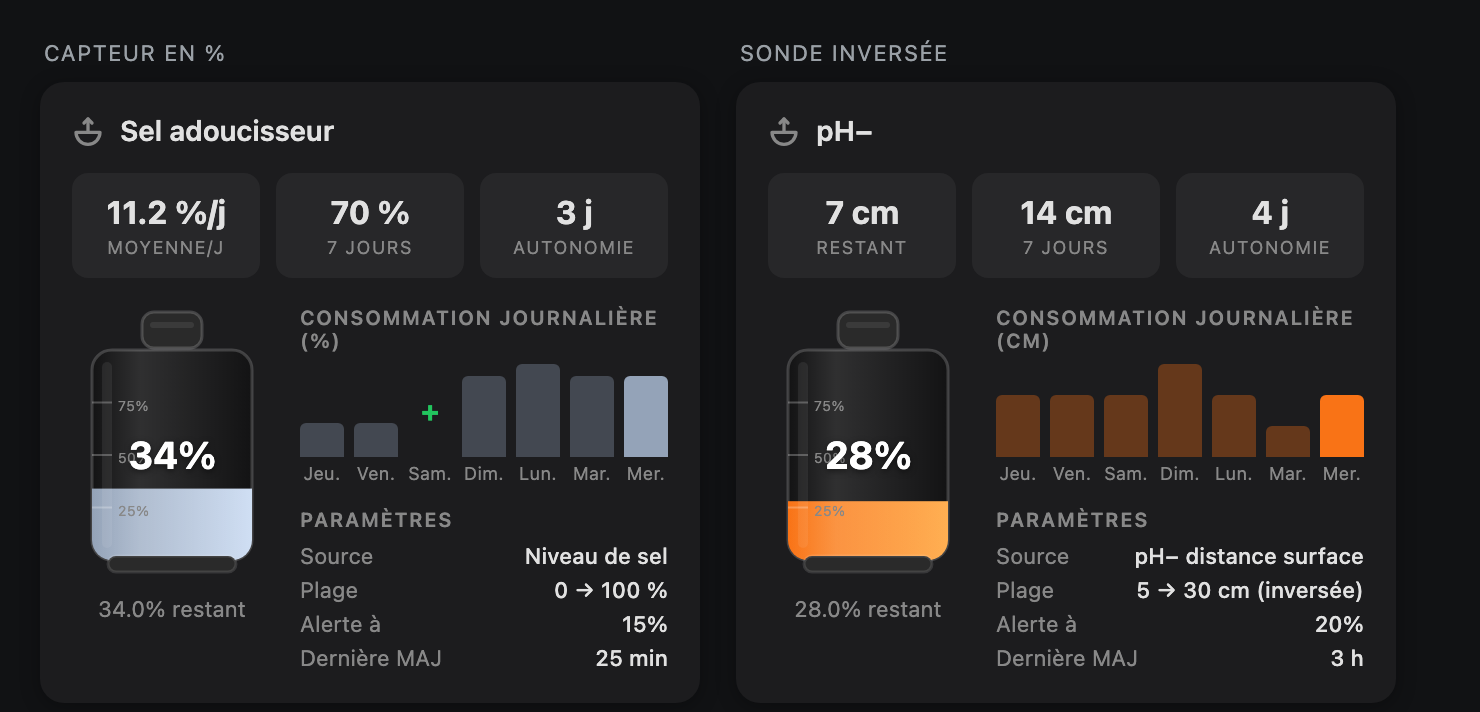
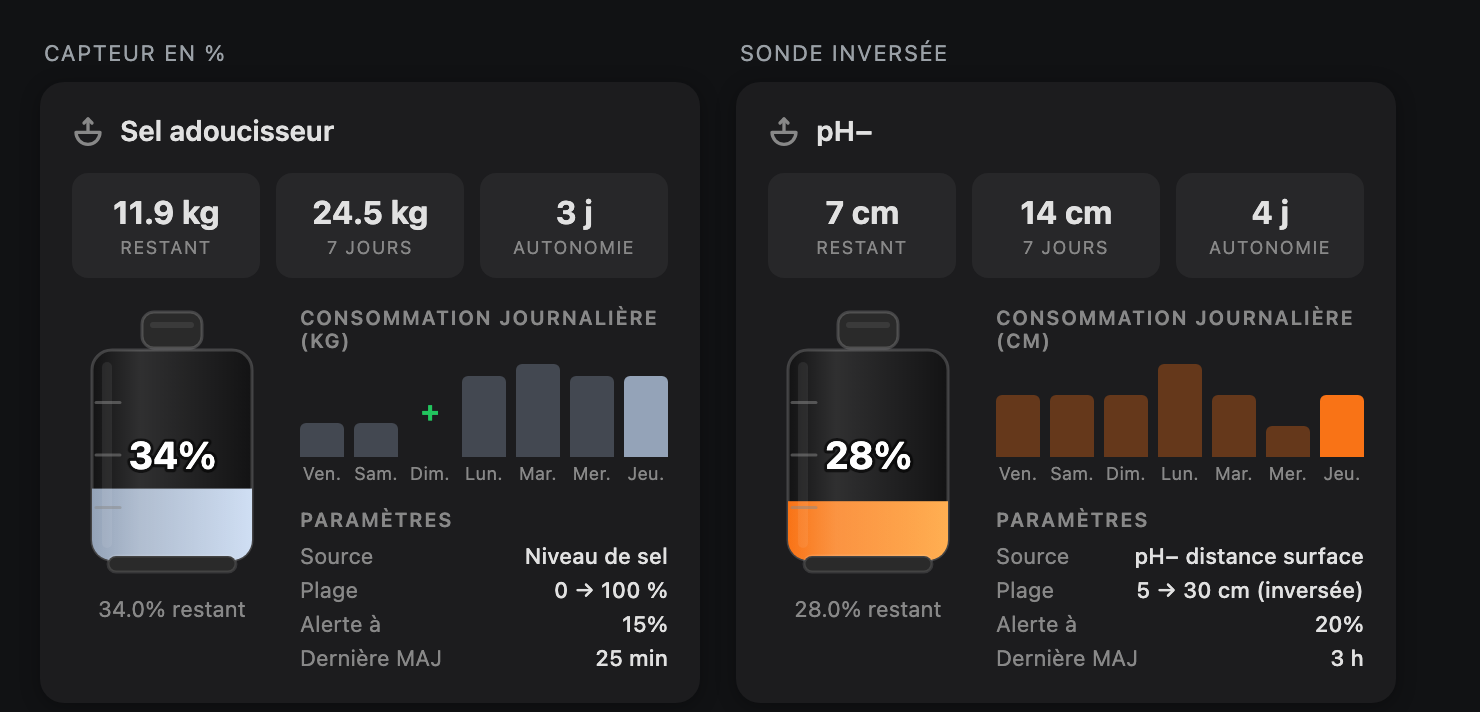
docs: capacity, colour by level, and regenerated direct-mode screenshots

diff --git a/docs/demo.html b/docs/demo.html
@@ -11,7 +11,7 @@
       --force-device-scale-factor=2 --hide-scrollbars --virtual-time-budget=4000 \
       "http://localhost:8731/docs/demo.html?lang=en&mode=direct"
 
-  Query params: lang=en|fr|…  mode=direct|pump|all
+  Query params: lang=en|fr|…  mode=direct|pump|all  colors=fixed|level
 -->
 <style>
   body { margin:0; padding:20px; background:#111214; font-family:Roboto,system-ui,sans-serif; }
@@ -26,8 +26,9 @@
 import '../dist/dosing-tank-card.js';
 
 const p    = new URLSearchParams(location.search);
-const lang = p.get('lang') || 'fr';
-const mode = p.get('mode') || 'direct';
+const lang   = p.get('lang') || 'fr';
+const mode   = p.get('mode') || 'direct';
+const colors = p.get('colors') || 'fixed';
 const DAY  = 86400000;
 const now  = Date.now();
 
@@ -48,7 +49,7 @@ function add(caption, config, states, hist) {
   col.className = 'col';
   col.innerHTML = `<p class="cap">${caption}</p>`;
   const card = document.createElement('dosing-tank-card');
-  card.setConfig(config);
+  card.setConfig({ ...config, color_mode: colors });
   card.hass = { states, locale: { language: lang },
                 callApi: async () => hist, callService: async () => {} };
   col.appendChild(card);
@@ -56,9 +57,11 @@ function add(caption, config, states, hist) {
 }
 
 if (mode === 'direct' || mode === 'all') {
-  // Softener salt tank, refilled four days ago.
+  // Softener salt tank, refilled four days ago. The sensor reports a
+  // percentage; capacity turns it into the kilos actually left.
   add(cap.pct,
     { level_entity: 'sensor.salt_level', name: lang === 'fr' ? 'Sel adoucisseur' : 'Softener salt',
+      capacity: 35, capacity_unit: 'kg',
       liquid_color: '#94a3b8', alert_threshold_percent: 15 },
     { 'sensor.salt_level': { state: '34',
         attributes: { unit_of_measurement: '%',

diff --git a/README.fr.md b/README.fr.md
@@ -97,6 +97,10 @@ liquid_color: "#3b82f6"
 | `level_entity` | `string` | ✅ ² | — | Capteur remontant le niveau. **La renseigner bascule la carte en mode niveau direct** et toute la chaîne pompe ci-dessus devient sans objet |
 | `level_full` | `number` | ² | `100` si l'unité est `%` | Valeur du capteur bidon plein |
 | `level_empty` | `number` | ² | `0` | Valeur du capteur bidon vide |
+| `capacity` | `number` | ² | — | Ce que contient physiquement une cuve pleine, pour lire les quantités en kg ou en litres même si le capteur ne remonte qu'un pourcentage |
+| `capacity_unit` | `string` | ² | — | Unité affichée à côté de ces quantités (`kg`, `L`…) |
+| `color_mode` | `string` | | `"fixed"` | `"level"` colore le bidon selon le remplissage au lieu d'utiliser `liquid_color` |
+| `warn_threshold_percent` | `number` | | `50` | Orange en dessous, rouge sous `alert_threshold_percent`. Utilisé uniquement par `color_mode: level` |
 | `alert_threshold_percent` | `number` | | `20` | Seuil d'alerte (%) |
 | `name` | `string` | | `"Dosing Tank"` | Titre affiché dans l'en-tête de la carte |
 | `liquid_color` | `string` | | `"#3b82f6"` | Couleur du liquide (toute couleur CSS hexadécimale) |
@@ -123,6 +127,14 @@ alert_threshold_percent: 15
 
 Un capteur qui remonte déjà des `%` n'a besoin d'aucune plage. Pour toute autre unité, `level_full` indique ce que lit le capteur quand la cuve est pleine.
 
+**Lire une cuve en kilos.** Un adoucisseur remonte un pourcentage, alors que ce qu'on veut savoir c'est combien il reste de sel. `capacity` indique ce que contient une cuve pleine, et toutes les quantités suivent : restant, consommation 7 jours, graphe et son titre. Le niveau reste mesuré par le capteur, `capacity` ne change que l'unité dans laquelle on compte.
+
+```yaml
+level_entity: sensor.adoucisseur_niveau_sel
+capacity: 35
+capacity_unit: "kg"
+```
+
 **Les sondes inversées fonctionnent telles quelles.** Un capteur ultrason mesure la distance jusqu'à la surface : une cuve pleine donne donc une *petite* valeur. Donnez simplement les deux lectures dans cet ordre :
 
 ```yaml
@@ -131,7 +143,7 @@ level_full: 5           # cm entre le capteur et la surface, cuve pleine
 level_empty: 30         # cm, cuve vide
 ```
 
-Les trois tuiles changent de sens dans ce mode. Deux sont fixes : la consommation des 7 derniers jours, et l'**autonomie**, combien de temps la cuve tient au rythme moyen récent. La première s'adapte au capteur : sur un capteur en `%` elle affiche la consommation moyenne par jour, puisque le niveau est déjà inscrit sur le bidon ; sur toute autre unité elle affiche ce qu'il reste en unités de cuve, ce qui sur une sonde inversée est la hauteur de liquide et non la distance brute.
+Les trois tuiles changent de sens dans ce mode. Deux sont fixes : la consommation des 7 derniers jours, et l'**autonomie**, combien de temps la cuve tient au rythme moyen récent. La première s'adapte : sur un capteur en `%` seul elle affiche la consommation moyenne par jour, puisque le niveau est déjà inscrit sur le bidon ; sinon elle affiche ce qu'il reste, ce qui sur une sonde inversée est la hauteur de liquide et non la distance brute. Renseigner `capacity` donne à ce chiffre un sens propre, il repasse donc en quantité restante.
 
 Cette moyenne ignore délibérément les journées où le niveau est **monté** : un remplissage masque ce qui a été consommé en parallèle, et le compter comme une journée à consommation nulle gonflerait l'autonomie d'une cuve qui est en réalité en train de se vider. Les jours de remplissage apparaissent en `+` vert dans le graphe. Les journées où le niveau n'a réellement pas bougé sont conservées — un adoucisseur qui n'a pas régénéré, c'est une vraie information. L'autonomie affiche `—` tant qu'il n'y a pas au moins deux journées complètes de baisse.
 
@@ -146,6 +158,8 @@ Cette moyenne ignore délibérément les journées où le niveau est **monté** 
 | pH+ | Violet | `#8b5cf6` |
 | Floculant | Jaune | `#eab308` |
 | Algicide | Vert | `#22c55e` |
+
+**Ou colorer selon le niveau.** `color_mode: level` ignore `liquid_color` et peint le bidon en vert au-dessus de `warn_threshold_percent` (50 par défaut), en orange en dessous, en rouge sous `alert_threshold_percent` (20). Désactivé par défaut, parce que `liquid_color` est ce qui distingue un bidon de chlore d'un bidon de pH− au premier coup d'œil. Fonctionne dans les deux modes.
 
 
 ---

diff --git a/README.md b/README.md
@@ -97,6 +97,10 @@ liquid_color: "#3b82f6"
 | `level_entity` | `string` | ✅ ² | — | Sensor reporting the level. **Setting it switches the card to direct-level mode** and the whole pump chain above becomes irrelevant |
 | `level_full` | `number` | ² | `100` if unit is `%` | Sensor value for a full tank |
 | `level_empty` | `number` | ² | `0` | Sensor value for an empty tank |
+| `capacity` | `number` | ² | — | What a full tank physically holds, so quantities read in kg or litres even when the sensor only reports a percentage |
+| `capacity_unit` | `string` | ² | — | Unit written next to those quantities (`kg`, `L`…) |
+| `color_mode` | `string` | | `"fixed"` | `"level"` colours the tank by fill instead of using `liquid_color` |
+| `warn_threshold_percent` | `number` | | `50` | Amber below this, red below `alert_threshold_percent`. Only used by `color_mode: level` |
 | `alert_threshold_percent` | `number` | | `20` | Alert threshold (%) |
 | `name` | `string` | | `"Dosing Tank"` | Title shown in the card header |
 | `liquid_color` | `string` | | `"#3b82f6"` | Liquid color (any CSS hex color) |
@@ -123,6 +127,14 @@ alert_threshold_percent: 15
 
 A sensor already reporting `%` needs no range at all. For any other unit, `level_full` says what a full tank reads.
 
+**Reading a tank in kilos.** A softener reports a percentage, but what you actually want to know is how much salt is left. `capacity` says what a full tank holds, and every quantity follows: remaining, 7-day consumption, the chart and its title. The level itself is still measured by the sensor, `capacity` only changes what the figures are counted in.
+
+```yaml
+level_entity: sensor.softener_salt_level
+capacity: 35
+capacity_unit: "kg"
+```
+
 **Inverted probes work as-is.** An ultrasonic sensor measures the distance down to the surface, so a full tank reads *small*. Just give the two readings in the order they happen:
 
 ```yaml
@@ -131,7 +143,7 @@ level_full: 5           # cm from the sensor to the surface, tank full
 level_empty: 30         # cm, tank empty
 ```
 
-The three tiles change meaning in this mode. Two are fixed: consumption over the last 7 days, and **autonomy**, how long the tank lasts at the recent average rate. The first one adapts to the sensor: on a `%` sensor it shows the average daily consumption, since the level itself is already printed on the tank; on any other unit it shows what is left in tank units, which on an inverted probe is the liquid height and not the raw distance reading.
+The three tiles change meaning in this mode. Two are fixed: consumption over the last 7 days, and **autonomy**, how long the tank lasts at the recent average rate. The first one adapts: on a bare `%` sensor it shows the average daily consumption, since the level itself is already printed on the tank; otherwise it shows what is left, which on an inverted probe is the liquid height and not the raw distance reading. Setting `capacity` gives that figure a meaning of its own, so it goes back to showing what remains.
 
 That average deliberately ignores days when the level went **up**: a refill hides whatever was consumed alongside it, and counting it as a zero-consumption day would inflate the autonomy of a tank that is in fact running out. Refill days appear as a green `+` in the chart. Days where the level genuinely did not move are kept — a softener that did not regenerate is real information. Autonomy shows `—` until there are at least two complete days of decline.
 
@@ -146,6 +158,8 @@ That average deliberately ignores days when the level went **up**: a refill hide
 | pH+ | Purple | `#8b5cf6` |
 | Flocculant | Yellow | `#eab308` |
 | Algaecide | Green | `#22c55e` |
+
+**Or colour by level instead.** `color_mode: level` ignores `liquid_color` and paints the tank green above `warn_threshold_percent` (50 by default), amber below it, red below `alert_threshold_percent` (20). Off by default, because `liquid_color` is what tells a chlorine tank from a pH− one at a glance. Works in both modes.
 
 
 ---
